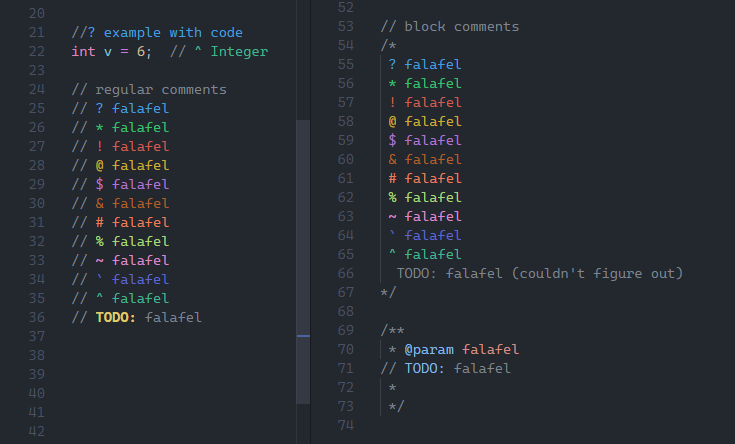
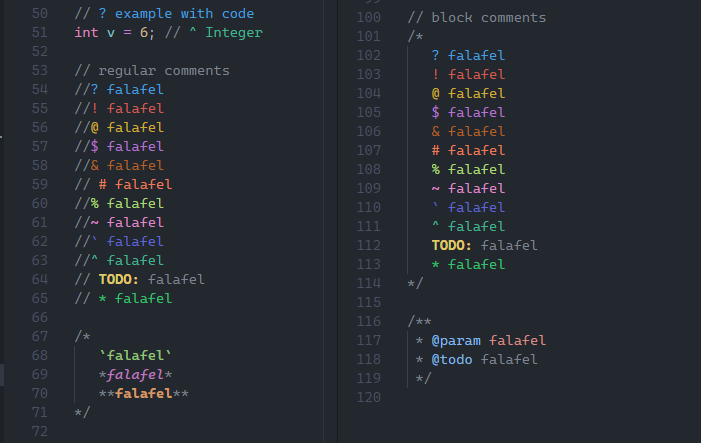
v2.7.0

diff --git a/src/extension.ts b/src/extension.ts
@@ -30,6 +30,36 @@ const commentStyles: CommentStyle[] = [
    { symbol: '^', color: '#41b48e' }
 ];
 
+/* ---------- MARKDOWN-LIKE INLINE PATTERNS ---------- */
+
+interface MarkdownPattern {
+   key: string;
+   regex: RegExp;
+   color: string;
+   fontStyle?: string;
+   fontWeight?: string;
+}
+
+const markdownPatterns: MarkdownPattern[] = [
+   {
+      key: 'md_bold',
+      regex: /\*\*(.+?)\*\*/g,
+      color: '#d19a66',
+      fontWeight: 'bold'
+   },
+   {
+      key: 'md_italic',
+      regex: /(?<!\*)\*(?!\*)(.+?)(?<!\*)\*(?!\*)/g,
+      color: '#bc78bb',
+      fontStyle: 'italic'
+   },
+   {
+      key: 'md_code',
+      regex: /`([^`]+)`/g,
+      color: '#94c379'
+   }
+];
+
 /* ---------- DOXYGEN TAGS TO IGNORE ---------- */
 
 const doxygenTags = [
@@ -83,11 +113,13 @@ const commentSyntaxByLanguage: Record<string, CommentSyntax> = {
 
 let decorationTypes = new Map<string, vscode.TextEditorDecorationType>();
 let isEnabled = true;
+let markdownHighlightsEnabled = true;
 
 /* ---------- ACTIVATE ---------- */
 
 export function activate(context: vscode.ExtensionContext) {
    isEnabled = vscode.workspace.getConfiguration().get('styledComments.enabled', true);
+   markdownHighlightsEnabled = vscode.workspace.getConfiguration().get('styledComments.markdownHighlights', true);
 
    initializeDecorationTypes();
 
@@ -108,6 +140,10 @@ export function activate(context: vscode.ExtensionContext) {
          if (e.affectsConfiguration('styledComments.enabled')) {
             isEnabled = vscode.workspace.getConfiguration().get('styledComments.enabled', true);
             isEnabled ? updateDecorations() : clearDecorations();
+         }
+         if (e.affectsConfiguration('styledComments.markdownHighlights')) {
+            markdownHighlightsEnabled = vscode.workspace.getConfiguration().get('styledComments.markdownHighlights', true);
+            updateDecorations();
          }
       }),
 
@@ -143,6 +179,18 @@ function initializeDecorationTypes() {
          })
       );
    }
+
+   /* Markdown-like inline decoration types */
+   for (const pattern of markdownPatterns) {
+      decorationTypes.set(
+         pattern.key,
+         vscode.window.createTextEditorDecorationType({
+            color: pattern.color,
+            fontWeight: pattern.fontWeight ?? 'normal',
+            fontStyle: pattern.fontStyle ?? 'normal'
+         })
+      );
+   }
 }
 
 let updateTimer: NodeJS.Timeout | undefined;
@@ -154,6 +202,13 @@ function scheduleUpdate() {
 function isDoxygenComment(commentText: string): boolean {
    const trimmed = commentText.trim();
    return doxygenTags.some(tag => trimmed.startsWith(tag));
+}
+
+/* Returns true if the comment text (after the comment token) starts with
+   one of the styled-comment symbols, meaning markdown patterns are allowed. */
+function hasStyledSymbol(commentText: string): boolean {
+   const trimmed = commentText.trimStart();
+   return trimmed.length > 0 && /^[^a-zA-Z0-9\s]/.test(trimmed);
 }
 
 function updateDecorations() {
@@ -172,6 +227,7 @@ function updateDecorations() {
 
    const ranges = new Map<string, vscode.Range[]>();
    commentStyles.forEach(s => ranges.set(s.symbol, []));
+   markdownPatterns.forEach(p => ranges.set(p.key, []));
 
    let inBlockComment = false;
    let inDoxygenBlock = false;
@@ -194,10 +250,10 @@ function updateDecorations() {
             }
          }
       }
+
       /* ----- BLOCK COMMENTS ----- */
       if (syntax.block) {
          if (!inBlockComment && text.includes(syntax.block.start)) {
-            /* Check if this is a Doxygen block comment (/** or /*!) */
             const blockStartIdx = text.indexOf(syntax.block.start);
             const afterStart = text.slice(blockStartIdx + syntax.block.start.length);
             if (afterStart.startsWith('*') || afterStart.startsWith('!')) {
@@ -209,37 +265,35 @@ function updateDecorations() {
          }
 
          if (inBlockComment) {
-            /* Skip highlighting if we're in a Doxygen block */
             if (inDoxygenBlock) {
                if (text.includes(syntax.block.end)) {
                   inBlockComment = false;
                   inDoxygenBlock = false;
-                  commentStart = -1; // Reset after block ends
+                  commentStart = -1;
                }
                continue;
             }
 
-            commentText = text.slice(commentStart >= 0 ? commentStart : 0);
+            // For continuation lines, commentStart was never set this iteration
+            if (commentStart === -1) {
+               commentStart = 0;
+            }
+
+            commentText = text.slice(commentStart);
 
             if (text.includes(syntax.block.end)) {
                inBlockComment = false;
-               commentStart = -1; // Reset after block ends
+               commentStart = -1;
             }
          }
       }
 
-
-
       if (!commentText) continue;
 
       /* Ignore pure block comment end */
-      if (
-         syntax.block &&
-         text.trim() === syntax.block.end
-      ) {
-         continue;
-      }
+      if (syntax.block && text.trim() === syntax.block.end) continue;
 
+      /* ----- STYLED SYMBOL RANGES ----- */
       for (const style of commentStyles) {
          if (style.symbol === 'TODO:') {
             const idx = commentText.toUpperCase().indexOf('TODO:');
@@ -252,15 +306,81 @@ function updateDecorations() {
                );
             }
          } else if (commentText.trimStart().startsWith(style.symbol)) {
-            /* FIX: Only color the comment portion, not the entire line */
-            /* Ensure commentStart is valid (>= 0) before creating range */
-            const startPos = commentStart >= 0 ? commentStart : 0;
-            ranges.get(style.symbol)?.push(
-               new vscode.Range(
-                  new vscode.Position(lineNum, startPos),
-                  new vscode.Position(lineNum, text.length)
-               )
-            );
+   const startPos = commentStart >= 0 ? commentStart : 0;
+
+   if (markdownHighlightsEnabled) {
+      // Collect all md match spans on this line
+      const mdSpans: { start: number; end: number }[] = [];
+      for (const pattern of markdownPatterns) {
+         pattern.regex.lastIndex = 0;
+         let m: RegExpExecArray | null;
+         while ((m = pattern.regex.exec(commentText)) !== null) {
+            mdSpans.push({
+               start: startPos + m.index,
+               end: startPos + m.index + m[0].length
+            });
+         }
+      }
+      mdSpans.sort((a, b) => a.start - b.start);
+
+      // Fill gaps between md spans with the symbol color
+      let cursor = startPos;
+      for (const span of mdSpans) {
+         if (cursor < span.start) {
+            ranges.get(style.symbol)?.push(new vscode.Range(
+               new vscode.Position(lineNum, cursor),
+               new vscode.Position(lineNum, span.start)
+            ));
+         }
+         cursor = span.end;
+      }
+      if (cursor < text.length) {
+         ranges.get(style.symbol)?.push(new vscode.Range(
+            new vscode.Position(lineNum, cursor),
+            new vscode.Position(lineNum, text.length)
+         ));
+      }
+   } else {
+      // md highlights off — just color the whole line
+      ranges.get(style.symbol)?.push(new vscode.Range(
+         new vscode.Position(lineNum, startPos),
+         new vscode.Position(lineNum, text.length)
+      ));
+   }
+}
+      }
+
+      /* ----- MARKDOWN-LIKE INLINE RANGES ----- */
+      if (markdownHighlightsEnabled && hasStyledSymbol(commentText)) {
+         const baseOffset = commentStart >= 0 ? commentStart : 0;
+
+         for (const pattern of markdownPatterns) {
+            pattern.regex.lastIndex = 0;
+            let match: RegExpExecArray | null;
+
+            while ((match = pattern.regex.exec(commentText)) !== null) {
+               let start: number;
+               let end: number;
+
+               if (pattern.key === 'md_bold') {
+                  start = baseOffset + match.index + 2;
+                  end = baseOffset + match.index + match[0].length - 2;
+               } else if (pattern.key === 'md_italic') {
+                  start = baseOffset + match.index + 1;
+                  end = baseOffset + match.index + match[0].length - 1;
+               } else {
+                  // md_code: color the whole `stuff` including backticks
+                  start = baseOffset + match.index;
+                  end = baseOffset + match.index + match[0].length;
+               }
+
+               ranges.get(pattern.key)?.push(
+                  new vscode.Range(
+                     new vscode.Position(lineNum, start),
+                     new vscode.Position(lineNum, end)
+                  )
+               );
+            }
          }
       }
    }

diff --git a/README.md b/README.md
@@ -1,6 +1,6 @@
 # Styled Comments
 
-Highlight specially marked comments in different colours to make notes, warnings, TODOs, and annotations stand out while coding. And it doesn't affect Doxygen or JSDoc.
+Highlight specially marked comments in different colours to make *notes*, *warnings*, *TODOs*, and *annotations* stand out while coding. And it *doesn't* affect **Doxygen** or **JSDoc**. **MarkDown Delimiters** are also supported.
 
 ![Example](images/ExampleImage.png)
 
@@ -12,19 +12,27 @@ Example for text files:
 
 ![Example](images/textEg.png)
 
-### Supported symbols
+### Simple Markdown support
+
+You can use **Markdown delimiters** (`` ` ``, `*`, `**`) to format words like Markdown. This is supported with line **highlighters**/**decorators** ( `?`, `*`, `!`, `@`, `$`, `&` , `#`, `%`, `~`, `` ` ``, `^`).  
+
+However the comment line *must start* with any **non-Alphanumeric symbol**. If you have a **Alphanumeric** (`abcd...`,`123...`) in front of the comment line then you'll have use a **Full stop**(`.`). [ *period in american English* ]
+
+![md Showcase](images/mdExample.png)
+
+### Supported Decorator symbols
 
 | Symbol | Meaning | Style |
-|------  |-------- |-------|
+|--------|---------|-------|
 | `?` | Question / uncertainty | Blue |
-| `*` | Important note | Lime green |
+| `*` | Important note | green |
 | `!` | Warning / alert | Red |
 | `@` | Mention / reference | Yellow |
 | `TODO:` | Task / reminder | **Bold + yellow** |
 | `$` | Cost / money related | Purple |
 | `&` | Connection / related info | Brown |
 | `#` | Tag / category | Orange |
-| `%` | Performance / metrics | Light green |
+| `%` | Performance / metrics | Lime green |
 | `~` | Approximate / soft note | Pink |
 | `` ` `` | Code / technical detail | Blue |
 | `^` | Improvement / optimization | Teal |
@@ -81,4 +89,35 @@ Simply place one of the supported symbols **at the start of a comment**.
 <code style="color : #5f66cc">// ` This involves low-level code</code><br>
 <code style="color : #41b48e">// ^ Can be optimized later</code>
 
-- Same can be done with block comments.
+- Same can be done with *block comments*.
+
+### Simple Markdown
+
+- use `` ` `` delimiter for highlighting a single word Green
+- use `` * `` delimiter for highlighting a single word Purple and *italic*
+- use `` ** `` delimiter for highlighting a single word Gold and **Bold**
+
+## Known Issues
+
+1. `*` specifically requires that you write like:
+
+```sh
+// *
+```
+
+and not like this:
+
+```sh
+//*
+```
+
+## contributions
+
+I would love any help you can provide.
+You can help by,
+
+- Starring the project on [Github](https://github.com/Alec269/styled-comments-vscode.git)
+- Finding and reporting [issues](https://github.com/Alec269/styled-comments-vscode/issues)
+- Suggesting possible fixes for known [issues](https://github.com/Alec269/styled-comments-vscode/issues)
+
+😢 I'm sorry if there are issues that haven't been fixed, yet. I'm just a student and I'm not good at `Typescript`.

diff --git a/CHANGELOG.md b/CHANGELOG.md
@@ -84,3 +84,21 @@ All notable changes to this project will be documented in this file.
 
 - `TODO:` still don't get highlighted in regular block comments
   - *Temporary fix* : add `//` before `TODO:` in block comments
+
+## [2.7.0] - 31-03-2026
+
+### Added
+
+- Support for **Markdown Delimiters** (`` ` ``, `*`, `**`).
+  - `` ` `` delimiter highlights a single word Green
+  - `` * `` delimiter highlights a single word Purple and *italic*
+  - `` ** `` delimiter highlights a single word Gold and **Bold**
+
+### Fixed issues
+
+- `TODO:` now, get highlighted in regular block comments
+
+### New issues
+
+- `*` specifically requires that you write like: `// *`, and not like this: `//*`
+  - *Temporary fix* : add a space between `//` and `*` symbol.

diff --git a/LICENSE.md b/LICENSE.md
@@ -1,5 +1,5 @@
 
-Copyright 2026 Alec269
+Copyright (c) 2026 Alec269
 
 Permission is hereby granted, free of charge, to any person obtaining a copy of this software and associated documentation files (the “Software”), to deal in the Software without restriction, including without limitation the rights to use, copy, modify, merge, publish, distribute, sublicense, and/or sell copies of the Software, and to permit persons to whom the Software is furnished to do so, subject to the following conditions:
 
